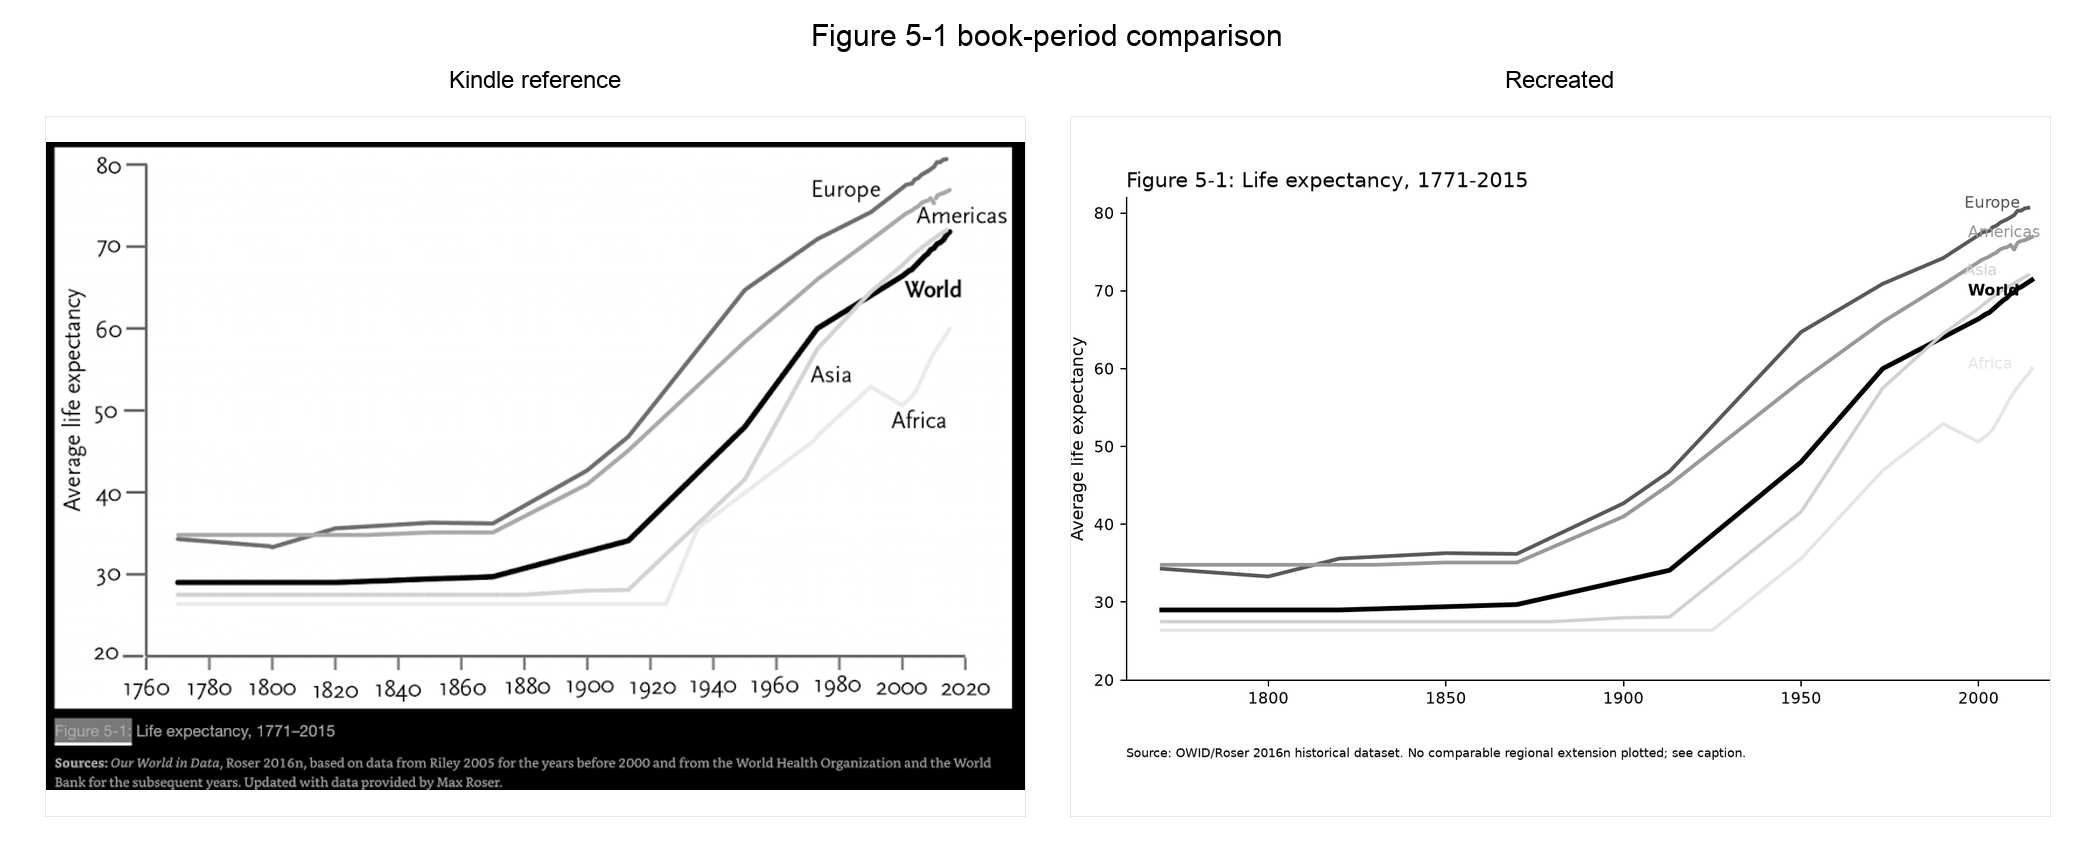
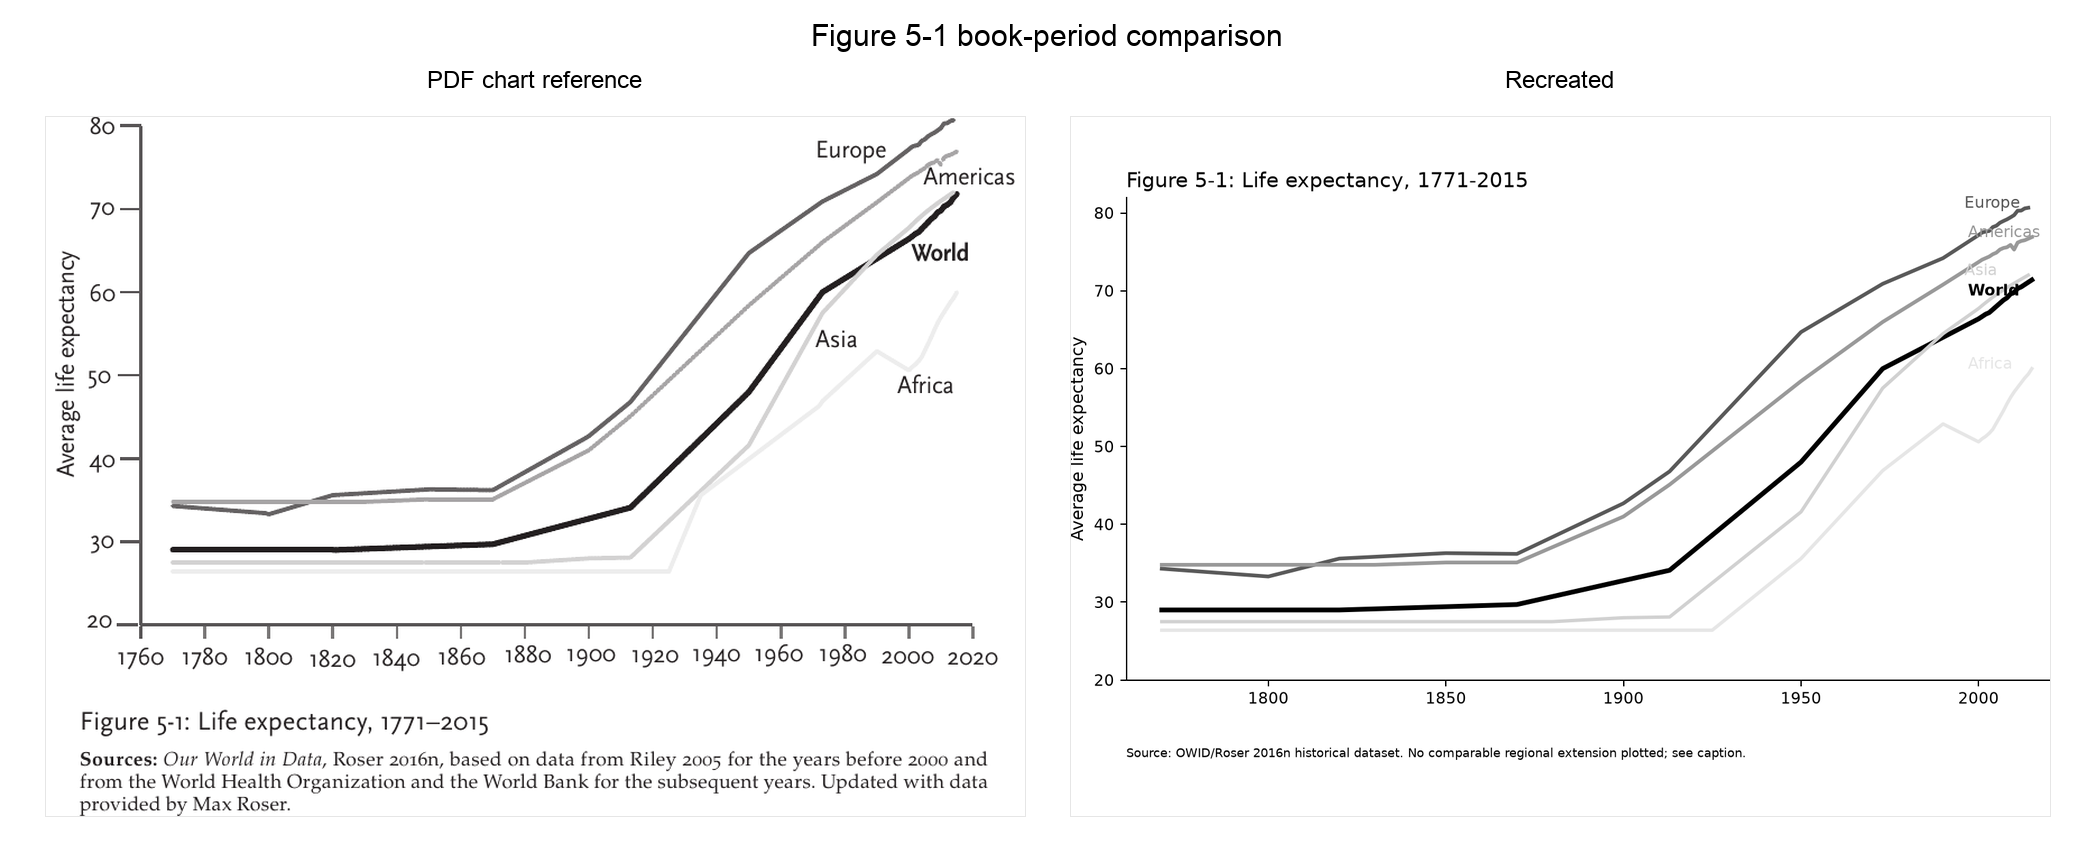
Remediate chapter 5-7 visual QA

Changed region(s): [[0.0, 0.1208, 0.4964, 0.9663], [0.2172, 0.0604, 0.3103, 0.1208]]

diff --git a/scripts/reconstruct_5_1_5_2_8_4_19_1.py b/scripts/reconstruct_5_1_5_2_8_4_19_1.py
@@ -16,6 +16,7 @@ from PIL import Image, ImageChops, ImageDraw, ImageFont, ImageOps
 ROOT = Path(__file__).resolve().parents[1]
 OWID = Path("/Users/alfred/Documents/MIsc/enlightenment_now_poc/data/repositories/owid-datasets/datasets")
 TMP_KINDLE = ROOT / "tmp/kindle_batch"
+TMP_PDF = ROOT / "tmp/track_a_pdf_pages"
 TODAY = date.today().isoformat()
 
 
@@ -31,11 +32,11 @@ FIGURES = {
     "5-1": {
         "title": "Life expectancy, 1771-2015",
         "chapter": "5",
-        "page": "Kindle page 54 search result",
+        "page": "Supplemental PDF page 2; Kindle page previously inspected",
         "source": "Our World in Data, Roser 2016n, based on Riley 2005 before 2000 and WHO/World Bank after.",
         "claim": "Average life expectancy increased across world regions from the Enlightenment era to 2015.",
-        "kindle": TMP_KINDLE / "page_Figure_5_1.png",
-        "crop": (970, 100, 1810, 655),
+        "kindle": TMP_PDF / "page-02.png",
+        "crop": (70, 845, 1005, 1535),
         "status": "verified_reproduction",
         "confidence": 0.86,
         "validation": "good",
@@ -54,11 +55,11 @@ FIGURES = {
     "5-2": {
         "title": "Child mortality, 1751-2013",
         "chapter": "5",
-        "page": "Kindle page 56 search result",
+        "page": "Supplemental PDF page 3; Kindle page previously inspected",
         "source": "Our World in Data, Roser 2016a, based on UN Child Mortality Estimates and the Human Mortality Database.",
         "claim": "Child mortality declined dramatically in representative countries.",
-        "kindle": TMP_KINDLE / "page_5_2_full.png",
-        "crop": (970, 145, 1645, 620),
+        "kindle": TMP_PDF / "page-03.png",
+        "crop": (115, 130, 1005, 805),
         "status": "partial_match",
         "confidence": 0.72,
         "validation": "acceptable",
@@ -212,7 +213,7 @@ def side_by_side(reference: Path, recreated: Path, output: Path, title: str) -> 
     left_x = margin
     right_x = margin + panel_w + gap
     label_y = title_h + 8
-    draw.text((left_x + panel_w // 2, label_y), "Kindle reference", fill="black", anchor="ma", font=label_font)
+    draw.text((left_x + panel_w // 2, label_y), "PDF chart reference", fill="black", anchor="ma", font=label_font)
     draw.text((right_x + panel_w // 2, label_y), "Recreated", fill="black", anchor="ma", font=label_font)
     paste_fit(ref, left_x, title_h + header_h)
     paste_fit(rec, right_x, title_h + header_h)
@@ -294,11 +295,12 @@ def plot_5_2():
     book.to_csv(b / "data/clean/figure_5_2_book_period_clean.csv", index=False)
     cur.to_csv(b / "data/clean/figure_5_2_extended_clean.csv", index=False)
     colors = {"Sweden": "black", "Canada": "0.45", "Chile": "0.55", "South Korea": "0.65", "Ethiopia": "0.86"}
+    book_start = {"Sweden": 1751, "Canada": 1920, "Chile": 1960, "South Korea": 1950, "Ethiopia": 1960}
 
     def draw(out, extended=False):
         fig, ax = plt.subplots(figsize=(8.3, 5.1), dpi=180)
         for ent in countries:
-            sub = book[book["Entity"] == ent].sort_values("Year")
+            sub = book[(book["Entity"] == ent) & (book["Year"] >= book_start[ent])].sort_values("Year")
             ax.plot(sub["Year"], sub["under5_mortality_percent"], color=colors[ent], linewidth=2.0 if ent != "Sweden" else 2.6)
             if extended:
                 ext = cur[(cur["Entity"] == ent) & (cur["Year"] > 2013)].sort_values("Year")

diff --git a/scripts/reconstruct_track_a_health_nutrition.py b/scripts/reconstruct_track_a_health_nutrition.py
@@ -315,22 +315,44 @@ def plot_6_1():
     df = pd.read_csv(raw)
     causes = ["Lower respiratory infections", "Diarrheal diseases", "Malaria", "Measles", "HIV/AIDS", "Meningitis"]
     clean = df[df["Entity"].isin(causes) & df["Year"].isin([2000, 2015])].copy()
+    clean["deaths_thousands_proxy"] = clean["Deaths (IHME (2017))"] / 1000.0
     clean.to_csv(b / "data/clean/figure_6_1_book_period_clean.csv", index=False)
     clean.to_csv(b / "data/clean/figure_6_1_extended_clean.csv", index=False)
-    pivot = clean.pivot(index="Entity", columns="Year", values="Share of children dying in first 5 years globally, by cause (IHME (2017))").reindex(causes)
+    pivot = clean.pivot(index="Entity", columns="Year", values="deaths_thousands_proxy").reindex(causes)
 
     def draw(out, extended=False):
         fig, ax = plt.subplots(figsize=(8.3, 5.1), dpi=180)
-        x = range(len(causes))
-        ax.bar([i - 0.18 for i in x], pivot[2000], width=0.36, color="0.25", label="2000")
-        ax.bar([i + 0.18 for i in x], pivot[2015], width=0.36, color="0.72", label="2015 proxy")
-        ax.set_xticks(list(x))
-        ax.set_xticklabels(["Pneumonia", "Diarrhea", "Malaria", "Measles", "HIV/AIDS", "Meningitis"], rotation=25, ha="right")
-        ax.set_ylabel("Share of global under-5 deaths (%)")
+        ax.set_xlim(2000, 2013)
+        ax.set_ylim(0, 1750)
+        ax.set_xticks(range(2000, 2014, 2))
+        ax.set_ylabel("Number of deaths of children under 5 (thousands)")
         ax.set_title("Figure 6-1: Childhood deaths from infectious disease, 2000-2013", loc="left", fontsize=12)
-        ax.legend(frameon=False)
         style_axis(ax)
-        ax.text(0, -0.28, "Proxy only: IHME 2017 cause shares use 2015 endpoint, not cited CHERG/WHO Liu et al. 2014 appendix.", transform=ax.transAxes, fontsize=7)
+        ax.text(
+            0.5,
+            0.58,
+            "Reconstruction blocked",
+            transform=ax.transAxes,
+            ha="center",
+            va="center",
+            fontsize=18,
+            weight="bold",
+            color="0.25",
+        )
+        ax.text(
+            0.5,
+            0.43,
+            "The cited CHERG/WHO Liu et al. 2014 appendix\n"
+            "annual line-series data were not recovered.\n\n"
+            "The available IHME proxy does not provide\n"
+            "verified 2000-2013 deaths-by-cause lines.",
+            transform=ax.transAxes,
+            ha="center",
+            va="center",
+            fontsize=10,
+            color="0.3",
+        )
+        ax.text(0, -0.18, "No values from the book figure were digitized. See source log and anomaly review.", transform=ax.transAxes, fontsize=7)
         fig.tight_layout()
         fig.savefig(out, bbox_inches="tight", facecolor="white")
         plt.close(fig)

diff --git a/PROJECT_STATE.md b/PROJECT_STATE.md
@@ -1,6 +1,6 @@
 # Project State
 
-Last update: 2026-06-30 03:25 America/Los_Angeles
+Last update: 2026-06-30 03:45 America/Los_Angeles
 
 Project version: `1.5-track-a-health-nutrition-branch`
 
@@ -48,10 +48,10 @@ this file are all updated. Only then may Codex begin another figure.
 | Figure | Title | Lifecycle stage | Status | Confidence | Current disposition |
 | --- | --- | --- | --- | --- | --- |
 | 5-1 | Life expectancy, 1771-2015 | Reviewed book-period reconstruction; no comparable extension plotted | `verified_reproduction` | High | OWID/Roser 2016n-style historical dataset matches the Kindle source line; the extended artifact is explicitly labeled as no comparable regional extension. |
-| 5-2 | Child mortality, 1751-2013 | Source recovery and discrepancy analysis | `partial_match` | Medium | Remediated to use the current OWID selected child-mortality series in percent units; exact Roser 2016a UN/HMD assembled source remains unresolved. |
+| 5-2 | Child mortality, 1751-2013 | Visual QA remediation and source recovery | `partial_match` | Medium | PDF reference crop added and proxy coverage trimmed to better match the book; exact Roser 2016a UN/HMD assembled source remains unresolved. |
 | 5-3 | Maternal mortality, 1751-2013 | Track A time-boxed reconstruction | `partial_match` | Medium | Book reference refreshed from supplemental PDF page 3; current OWID maternal-mortality successor data reproduce the broad concept but exact Roser 2016p vintage is not recovered. |
 | 5-4 | Life expectancy, UK, 1701-2013 | Track A targeted source recovery needed | `needs_targeted_source_recovery` | Low | Book reference/source refreshed from supplemental PDF page 4, but exact age-specific HMD/OWID series for ages 1, 5, 10, 20, 30, 40, 50, 60, and 70 were not recovered. |
-| 6-1 | Childhood deaths from infectious disease, 2000-2013 | Track A source blocked | `blocked_external_source` | Low | Book reference/source refreshed from supplemental PDF page 4; IHME proxy generated but cited CHERG/WHO Liu et al. appendix remains unrecovered. |
+| 6-1 | Childhood deaths from infectious disease, 2000-2013 | Visual QA blocked at source recovery | `blocked_external_source` | Low | PDF reference shows a five-line annual deaths chart; misleading IHME bar proxy was removed and reconstruction is blocked until the cited CHERG/WHO Liu et al. appendix or verified equivalent annual line-series data are recovered. |
 | 7-1 | Calories, 1700-2013 | Track A time-boxed reconstruction | `partial_match` | Medium | Book reference/source refreshed from supplemental PDF page 5; OWID/FAO historical calories dataset gives a plausible reconstruction but exact book-era source styling/vintage is unresolved. |
 | 7-2 | Childhood stunting, 1966-2014 | Track A time-boxed reconstruction | `partial_match` | Medium-low | Book reference/source refreshed from supplemental PDF page 5; World Bank stunting prevalence proxy used because exact OWID/Roser 2016j WHO NLIS vintage was not recovered. |
 | 8-4 | Extreme poverty (proportion), 1820-2015 | Reviewed book-period reconstruction; no comparable extension plotted | `verified_reproduction` | High | OWID historical Bourguignon & Morrison/PovcalNet dataset matches the Kindle source chain; comparison layout was remediated and no comparable World successor extension is plotted. |
@@ -438,6 +438,7 @@ Canonical documentation:
 
 | Version | Date | Summary |
 | --- | --- | --- |
+| `1.5.1-ch5-7-visual-qa-remediation` | 2026-06-30 | Re-reviewed chapter 5-7 side-by-side comparisons visually; switched 5-1 and 5-2 to PDF chart references, corrected the 5-1 crop, trimmed 5-2 proxy coverage, and replaced the misleading 6-1 bar proxy with a source-blocked reconstruction panel. |
 | `1.5-track-a-health-nutrition-branch` | 2026-06-30 | Track A branch processed Figures 5-3, 5-4, 6-1, 7-1, and 7-2 in a time-boxed health/nutrition batch. No figures were promoted to verified; statuses document partial matches, targeted source recovery, and blocked external-source evidence. |
 | `1.4-four-figure-remediation` | 2026-06-29 | Remediated the latest four-figure batch: clarified no-extension artifacts for Figures 5-1 and 8-4, improved Figure 5-2 source/units while retaining partial-match status, captured the actual Figure 19-1 Kindle chart crop, and marked Figure 19-1 visual validation as poor until the cited FAS/HumanProgress stacked source is recovered. |
 | `1.3-editorial-review-gate` | 2026-06-29 | Added a permanent Editorial Review Gate for publication-quality batch review before final commit, `PROJECT_STATE.md` completion language, or batch completion. |

diff --git a/reports/ch5_7_visual_qa_remediation.md b/reports/ch5_7_visual_qa_remediation.md
@@ -1,0 +1,98 @@
+# Chapter 5-7 Visual QA Remediation
+
+Date: 2026-06-30
+
+Branch: `track-a-health-nutrition`
+
+## Scope
+
+Reviewed existing side-by-side comparisons for Figures 5-1, 5-2, 5-3, 5-4,
+6-1, 7-1, and 7-2. The review focused on whether the recreated panel visibly
+matches the PDF/book reference panel in chart type, units, scale, coverage,
+and layout.
+
+## Fixes Applied
+
+- Figures 5-1 and 5-2 now use the supplied supplemental PDF chart references
+  instead of dark Kindle screenshot crops.
+- Figure 5-1 PDF crop was widened after visual inspection showed that the
+  y-axis label was clipped.
+- Figure 5-2 proxy series were trimmed to the coverage windows visible in the
+  book reference, improving the side-by-side match without digitizing book
+  values.
+- Figure 6-1 no longer displays a misleading grouped bar-chart proxy. The
+  comparison now shows the PDF line-chart reference beside a reconstruction
+  blocked panel with the same axis context.
+
+## Figure-by-Figure Visual Review
+
+### Figure 5-1
+
+Visual status: close.
+
+The recreated regional line chart matches the original chart form, axis range,
+and broad regional ordering. Remaining differences are mainly typography and
+label placement. The extended panel remains explicitly marked as no comparable
+extension plotted.
+
+### Figure 5-2
+
+Visual status: partial.
+
+The recreated line chart now uses the same PDF reference and more comparable
+country coverage windows. Remaining mismatches are visible in country line
+shape, source vintage, and endpoint label crowding. The figure should remain
+`partial_match`.
+
+### Figure 5-3
+
+Visual status: partial but usable for review.
+
+The recreated chart uses the correct line-chart form and percent unit. The
+overall shape is close for Sweden and the later declining series, but exact
+source-vintage differences remain visible, especially for labels and some
+country trajectories.
+
+### Figure 5-4
+
+Visual status: not visually adequate.
+
+The recreated chart is missing most of the age-specific series visible in the
+book reference. This cannot be fixed by styling; it requires targeted recovery
+of the exact age-specific HMD/OWID source series.
+
+### Figure 6-1
+
+Visual status: blocked.
+
+The book reference is a five-line annual time series in thousands of under-5
+deaths. The previous recreation was a grouped bar chart in percent shares,
+which was the wrong chart type, unit, and endpoint. That misleading proxy has
+been removed. The current side-by-side marks reconstruction as blocked until
+the cited CHERG/WHO Liu et al. 2014 supplementary appendix annual data, or a
+verified equivalent, are recovered.
+
+### Figure 7-1
+
+Visual status: partial.
+
+The recreated chart uses the correct line-chart form and calorie units. The
+major visual differences appear to be source-vintage and series construction
+differences, particularly in France and later developing-country trajectories.
+
+### Figure 7-2
+
+Visual status: partial.
+
+The recreated chart uses the correct line-chart form and stunting percentage
+unit. The Bangladesh and Kenya trajectories are plausible, but the exact
+OWID/Roser 2016j WHO NLIS vintage remains unrecovered and visible differences
+remain.
+
+## Editorial Outcome
+
+No figure was promoted to verified status in this remediation pass.
+
+The main corrected workflow lesson is that generating a side-by-side image is
+not sufficient. Codex must inspect it visually and continue iterating when the
+chart type, unit, coverage, or visual encoding is plainly wrong.
